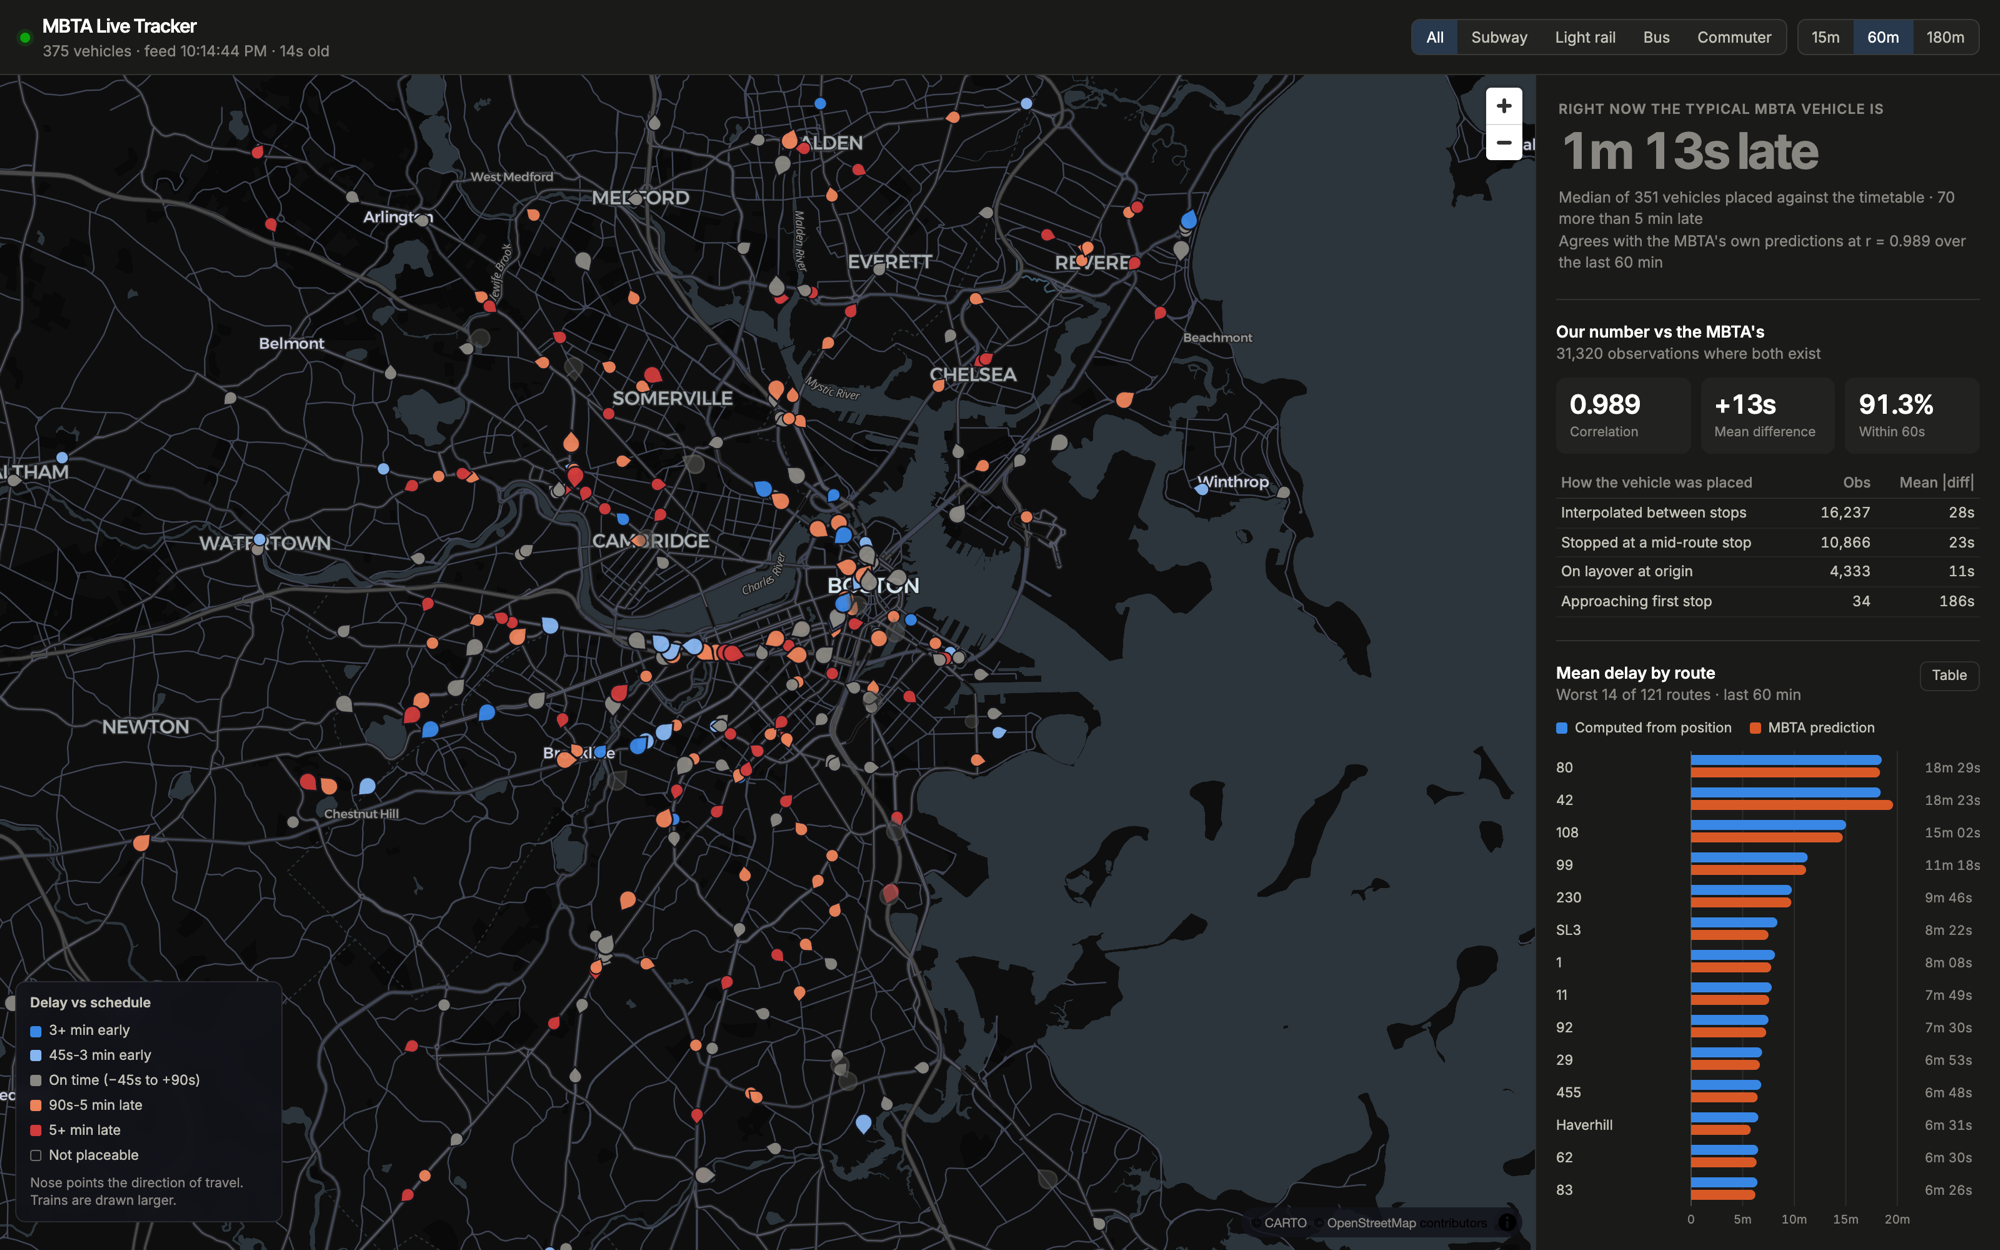
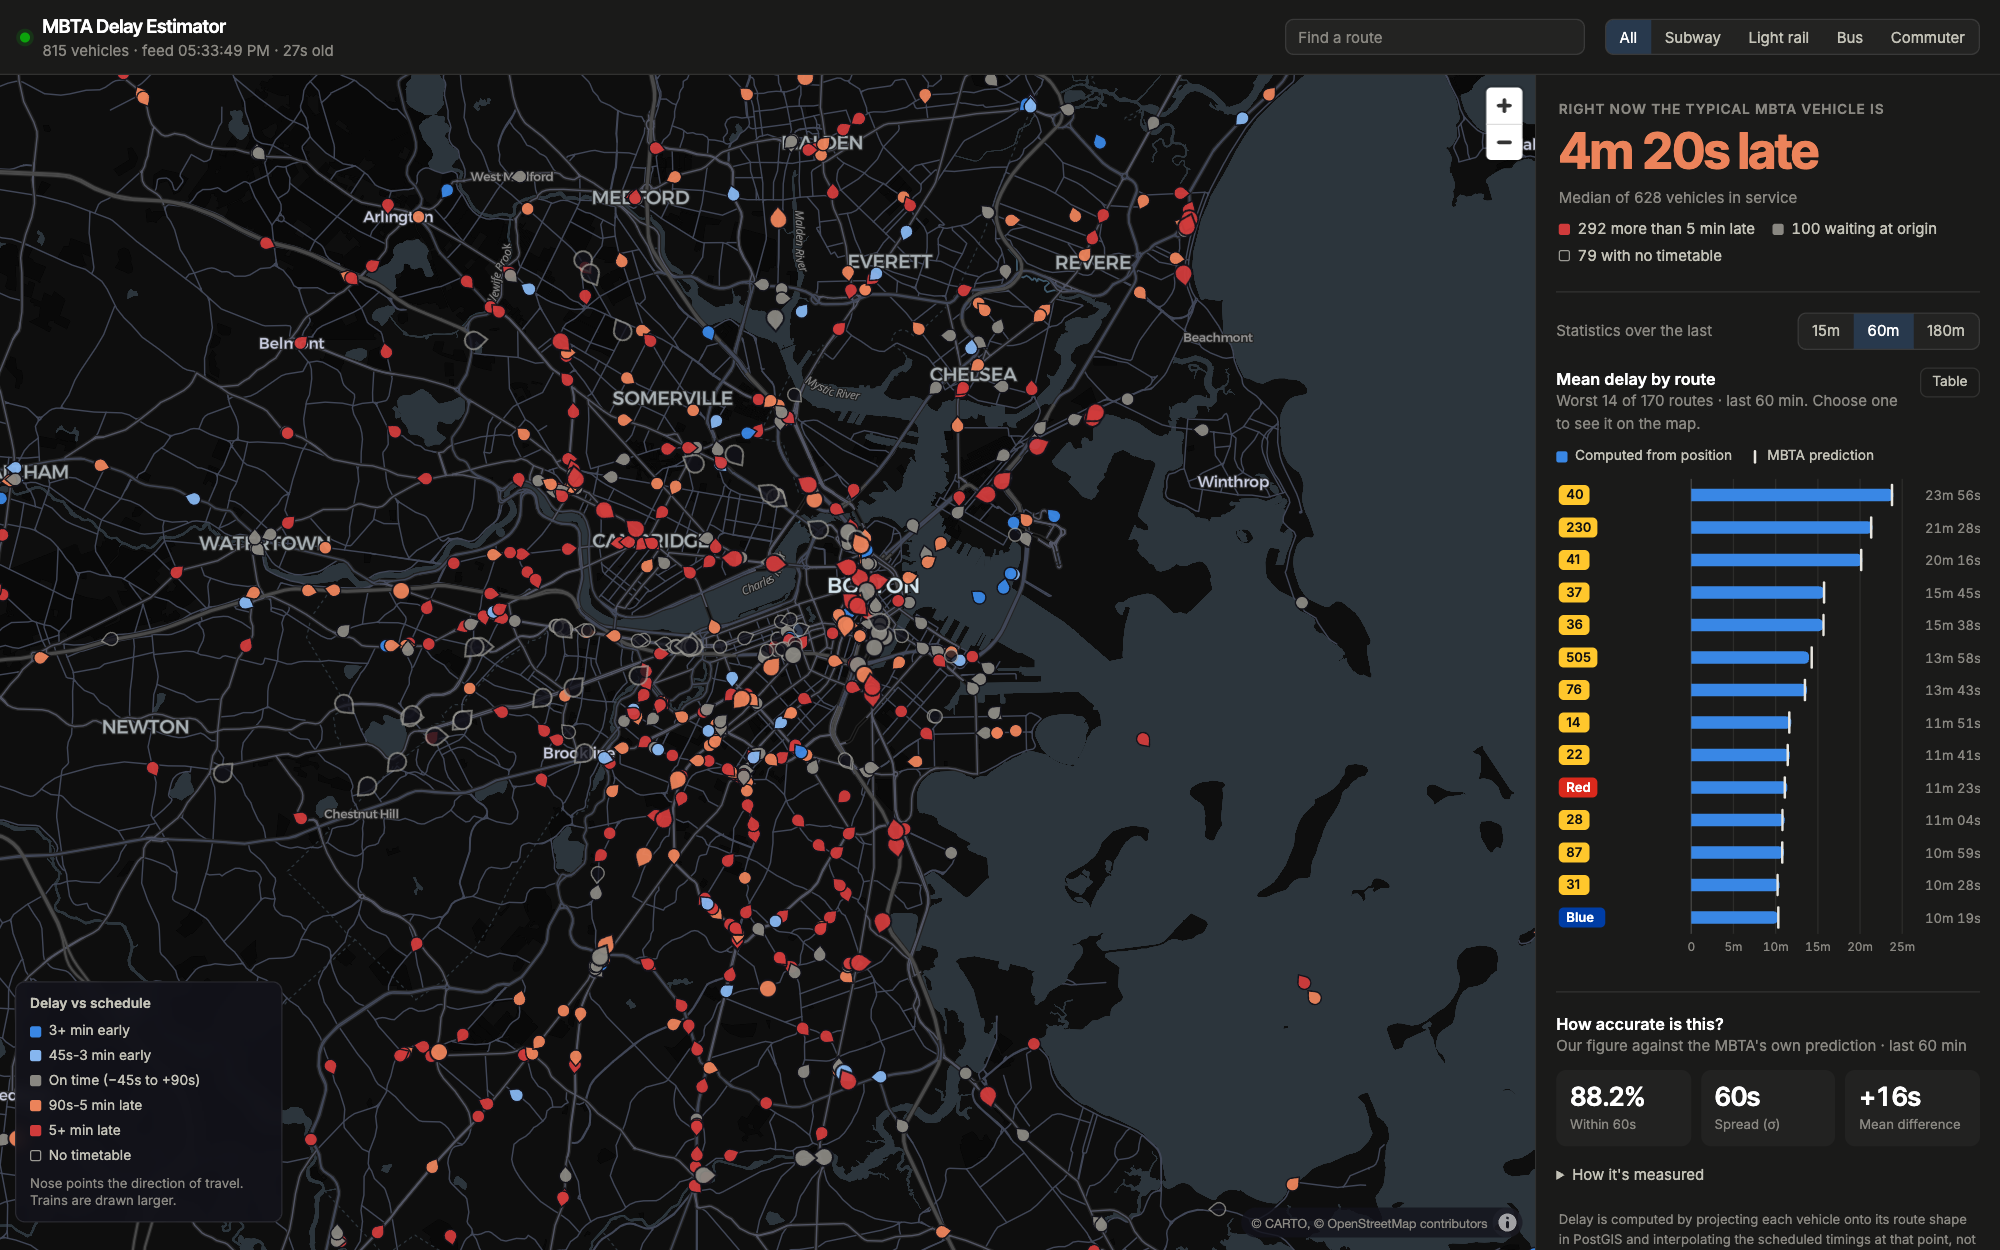
Refresh the demo recording and screenshot

diff --git a/README.md b/README.md
@@ -10,7 +10,7 @@ agency feed. Over a weekday morning peak the computed figure lands within a
 minute of the MBTA's own prediction 90% of the time, with a median difference
 of nine seconds; see [Validation](#validation).
 
-![Live map of Boston with vehicles colored by delay and moving between polls, alongside a panel comparing the position-derived figure to the MBTA's predictions](docs/demo.gif)
+![Live map of Boston with vehicles colored by delay and moving between polls. Hovering a bus shows its delay, searching for route 39 narrows the map to that route, and the panel compares the position-derived figure to the MBTA's predictions](docs/demo.gif)
 
 GTFS-realtime protobuf feeds are polled into PostGIS by a FastAPI service; a
 React + MapLibre frontend consumes the REST API. The MBTA's realtime feeds
